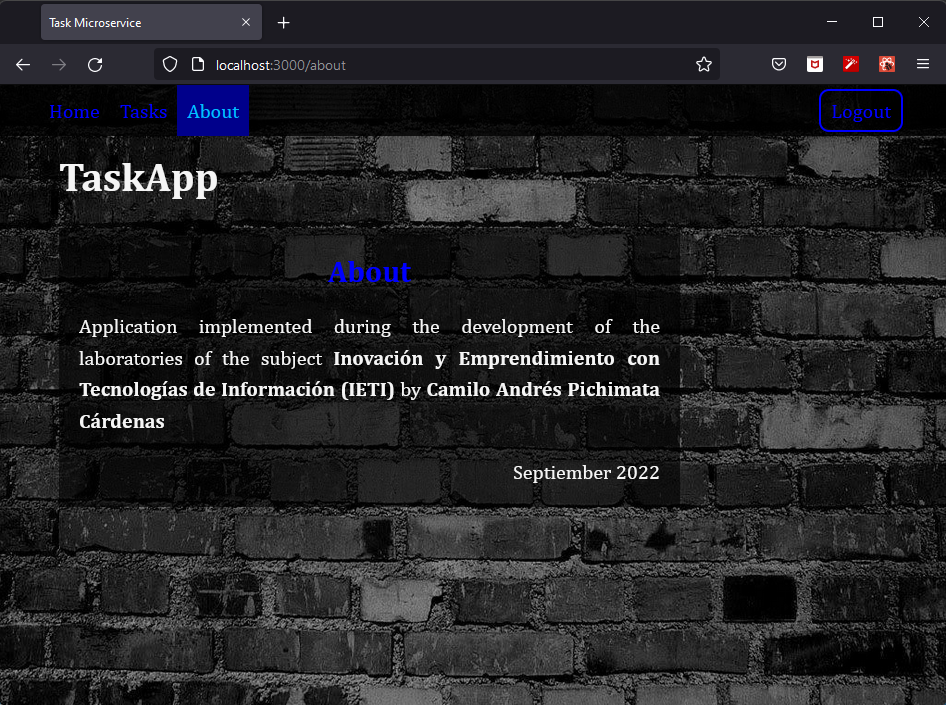
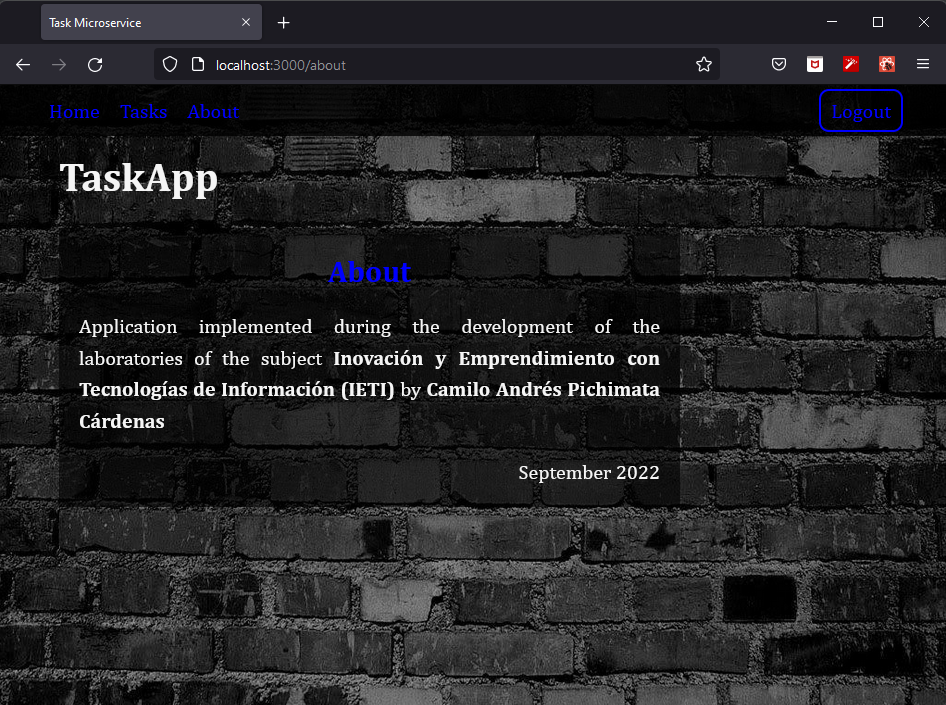
Actualización

Changed region(s): [[0.1839, 0.0936, 0.2759, 0.2184], [0.5211, 0.6553, 0.5825, 0.6865], [0.981, 0.9986, 1.0, 1.0]]

diff --git a/WebApplication/src/components/About.js b/WebApplication/src/components/About.js
@@ -8,7 +8,7 @@ export default function About() {
             <div className='about-text'>
                 <h3 className='about-title'>About</h3>
                 <p className='text-justified'>Application implemented during the development of the laboratories of the subject <span>Inovación y Emprendimiento con Tecnologías de Información (IETI)</span> by <span>Camilo Andrés Pichimata Cárdenas</span></p>
-                <p className='text-aling-right'>Septiember 2022</p>
+                <p className='text-aling-right'>September 2022</p>
             </div>
         </div>
     );

diff --git a/README.md b/README.md
@@ -11,7 +11,7 @@ Al API Tasks se le tuvo que agregar la conexión con una base de datos MongoDB d
 
 A continuación, se presenta la interfaz de la aplicación y su funcionamiento:
 
-### Instalación:
+### Instalación
 Para la ejecución de la aplicación después de clonar el respositorio se deben ejecutar por separado la aplicación `Tasks` y la aplicación `Users`, debido a que en este caso ambas aplicaciones se implementaron usando Spring Boot, por defecto estas buscan correr en el mismo puerto **8080**, para evitar conflictos en el archivo **aplication.properties** de `users` se incluyó la siguiente línea
 
 ```
